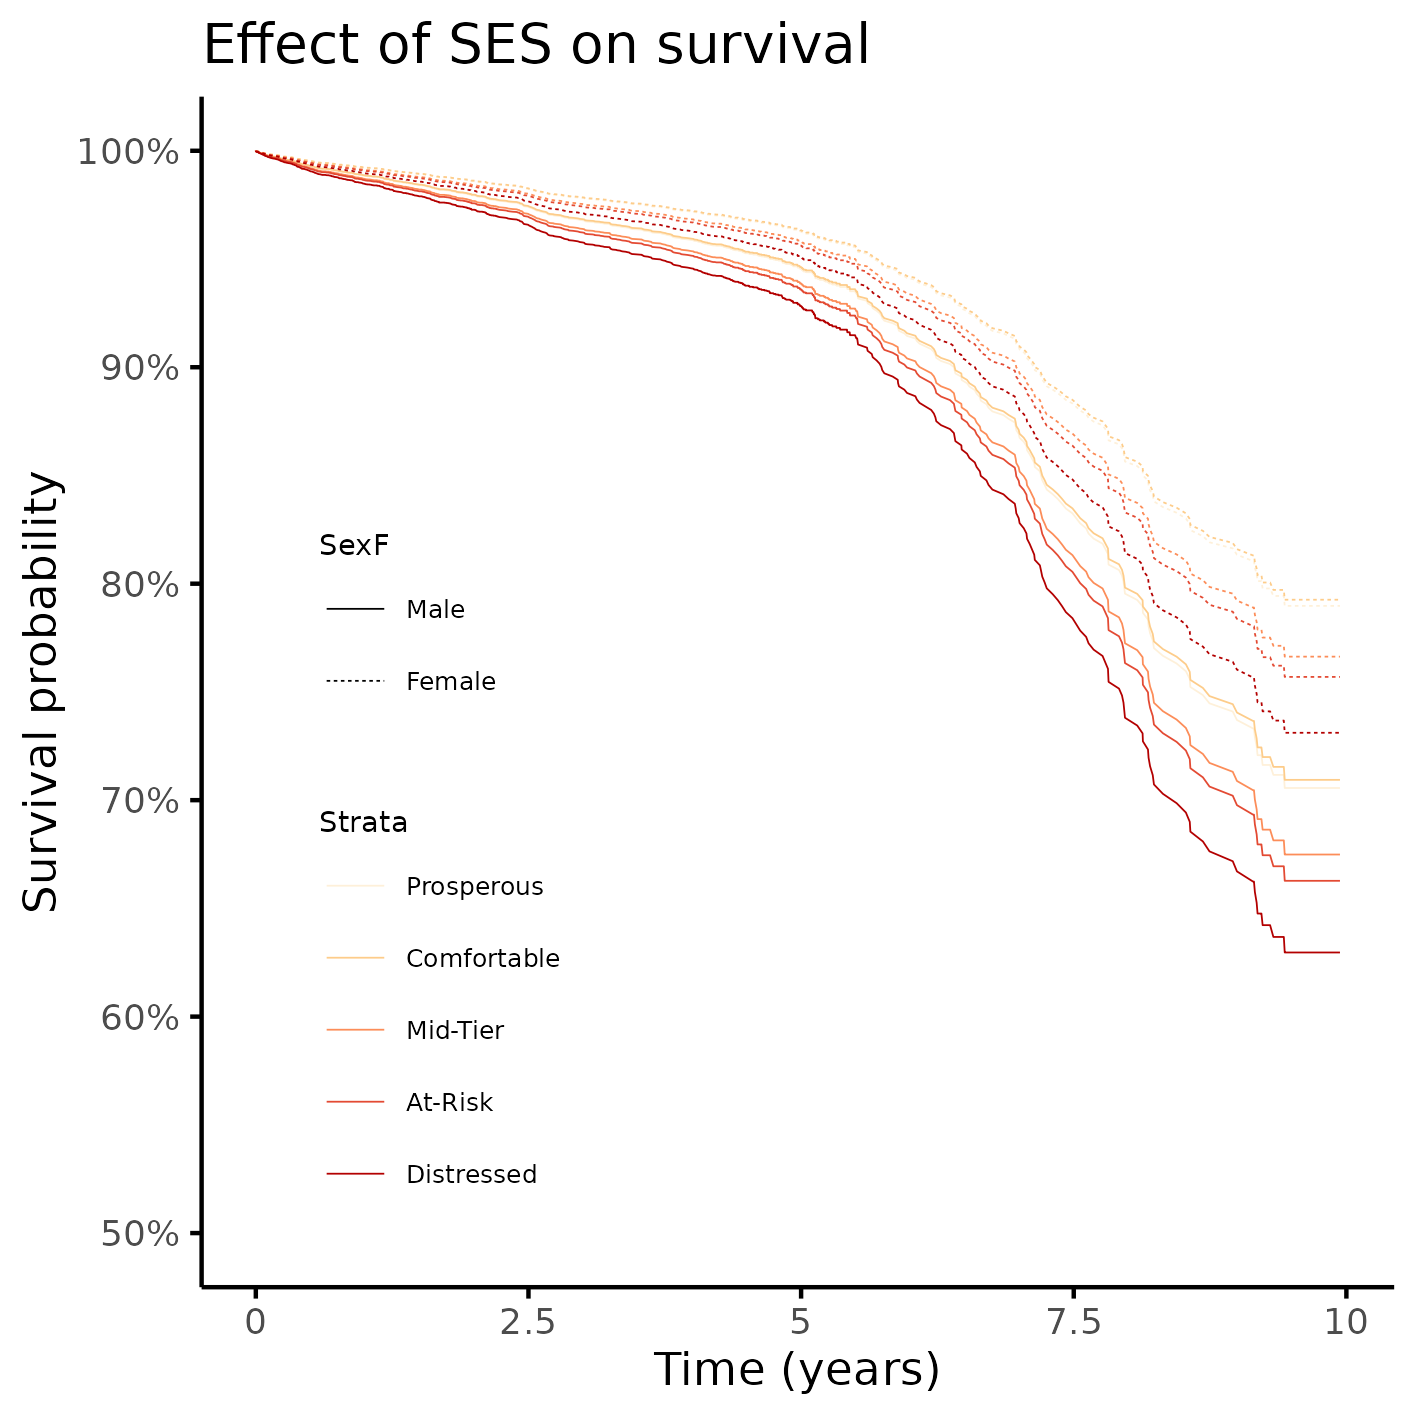
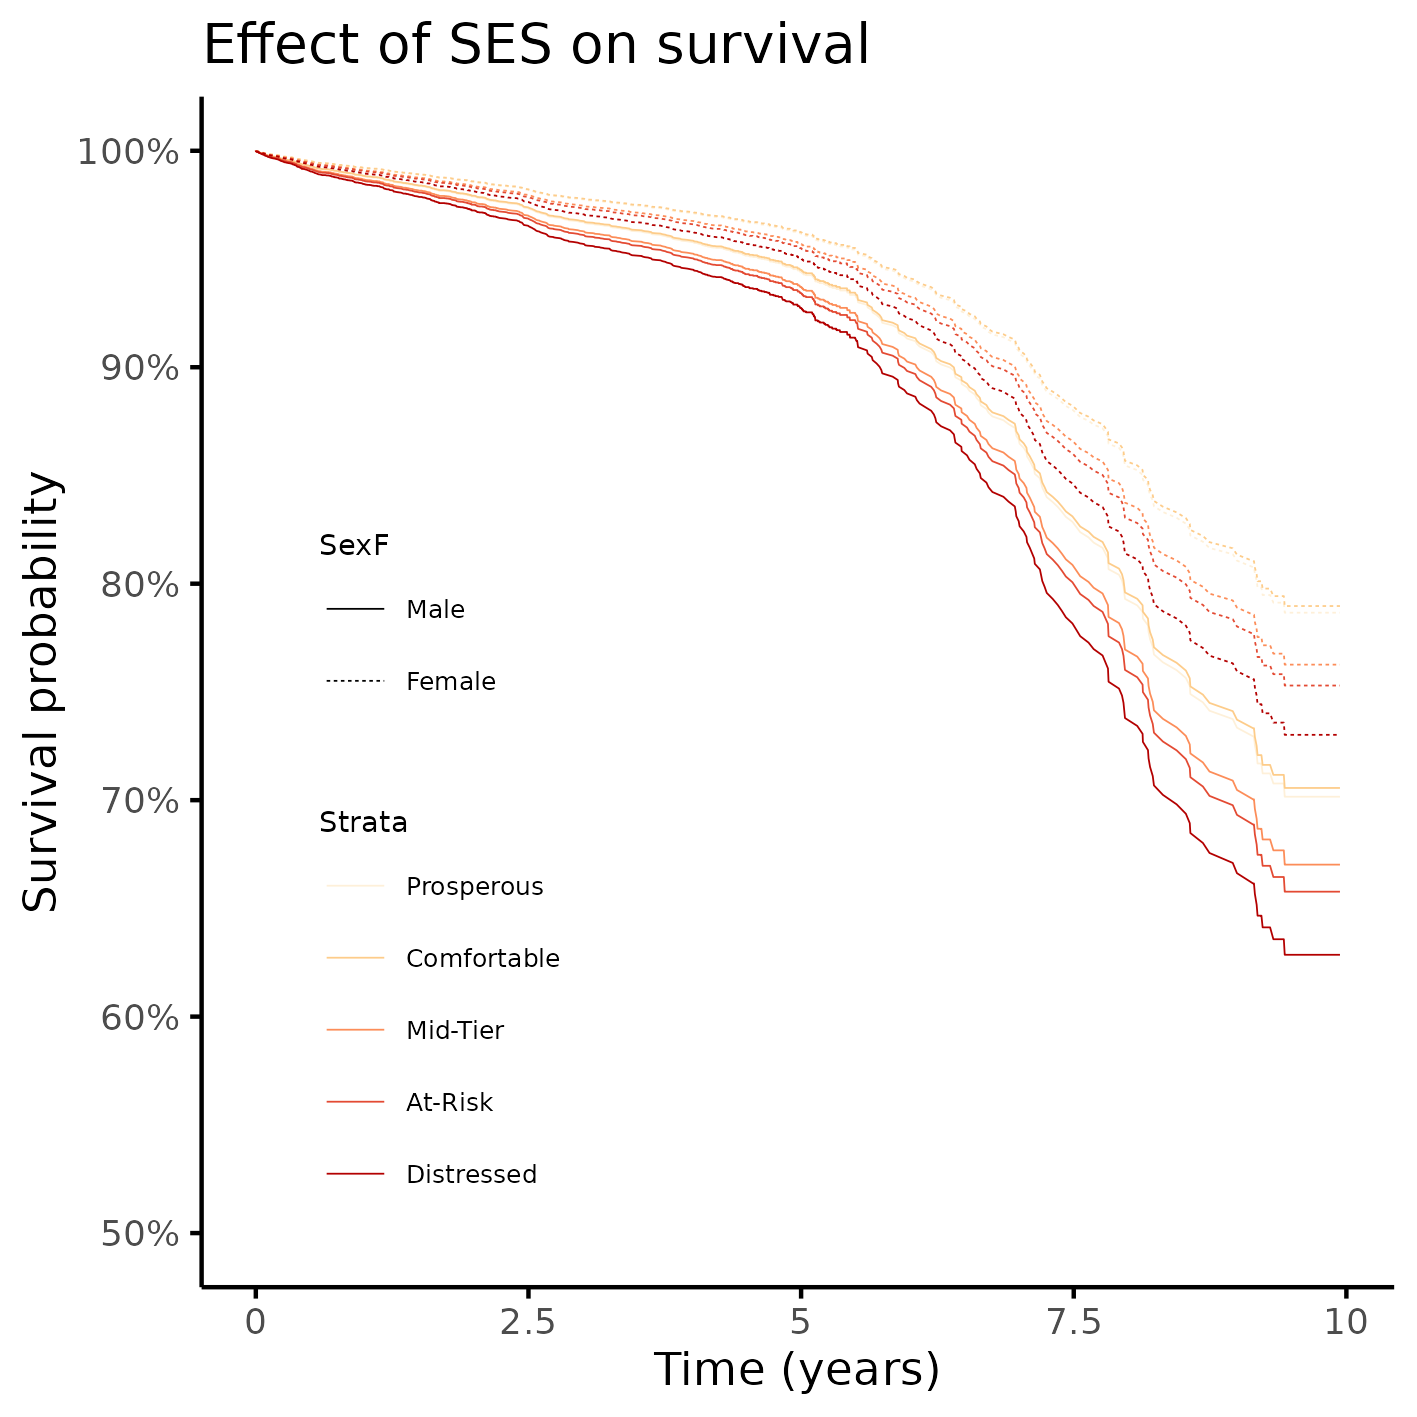
results: update after data changes

diff --git a/report/SAR-2023-004-BH-v01.md b/report/SAR-2023-004-BH-v01.md
@@ -168,8 +168,10 @@ Table: **Table 1** Epidemiological, demographic and clinical characteristics of 
 |                                              Other                                               |  1,537 (21%)  |
 |                                             Unknown                                              |      21       |
 |                        __Days From Injury to Rehab Discharge, Mean (SD)__                        |    46 (37)    |
-|                              __FIM Motor at Discharge:, Mean (SD)__                              |   77 (113)    |
-|                            __FIM Cognitive at Discharge:, Mean (SD)__                            |    28 (66)    |
+|                              __FIM Motor at Discharge:, Mean (SD)__                              |    64 (18)    |
+|                                             Unknown                                              |      107      |
+|                            __FIM Cognitive at Discharge:, Mean (SD)__                            |    23 (7)     |
+|                                             Unknown                                              |      34       |
 
 The observed overall mortality was 13.5% in the study period.
 The distribution of cases appear homogeneous across SES quintiles (Figure 1), ranging from 10.6% to 13.5%.
@@ -184,7 +186,7 @@ See also Figure A2 in the appendix for the distribution of sexes in each SES qui
 ## Effect of SES on mortality
 
 The previous seizure disorder diagnosis was missing for most of the study population and was not included in the model as a covariate to preserve study power.
-After excluding participants with missing data from other variables a total of 5,834 complete cases were available for analysis.
+After excluding participants with missing data from other variables a total of 5,756 complete cases were available for analysis.
 The cause of injury and both FIM scales were removed from the model due to violations to the proportional hazards assumption (see Figure A4 in the appendix for the Schoenfeld residuals and p-values for each variable in the full model).
 
 The survival curves of both sexes by SES quintiles can be seen in Figure 2.
@@ -200,11 +202,11 @@ This plot was cropped at 50% survival for presentation purposes, see Figure A3 i
 When considering only the crude effect of SES on mortality neighborhood to which the individuals were discharged was associated with mortality (Table 2).
 Participants who were discharged to an at-risk neighborhood had increased chance of dying
 (HR = 1.29,
-95% CI = 1.02 to 1.63),
+95% CI = 1.02 to 1.64),
 when compared to those discharged to a prosperous neighborhood.
 Participants discharged to a distressed neighborhood also had a higher mortality risk
-(HR = 1.38,
-95% CI = 1.10 to 1.73),
+(HR = 1.35,
+95% CI = 1.08 to 1.70),
 when compared to those discharged to a prosperous neighborhood.
 
 
@@ -214,20 +216,20 @@ Table: **Table 2** Effect of SES on mortality; HR estimates were adjusted for se
 |:------------------|:------:|:------------:|:-----------:|:------:|:------------:|:-----------:|:------:|:------------:|:-----------:|
 |__SES quintiles__  |        |              |             |        |              |             |        |              |             |
 |Prosperous         |   —    |      —       |             |   —    |      —       |             |   —    |      —       |             |
-|Comfortable        |  1.18  | 0.94 to 1.49 |    0.152    |  0.98  | 0.78 to 1.25 |    0.899    |  0.99  | 0.74 to 1.31 |    0.929    |
-|Mid-Tier           |  1.00  | 0.78 to 1.27 |    0.982    |  1.13  | 0.88 to 1.45 |    0.352    |  1.07  | 0.78 to 1.45 |    0.681    |
-|At-Risk            |  1.29  | 1.02 to 1.63 |  __0.034__  |  1.18  | 0.92 to 1.51 |    0.187    |  1.30  | 0.98 to 1.74 |    0.072    |
-|Distressed         |  1.38  | 1.10 to 1.73 |  __0.006__  |  1.33  | 1.04 to 1.70 |  __0.025__  |  1.23  | 0.91 to 1.66 |    0.170    |
+|Comfortable        |  1.18  | 0.94 to 1.49 |    0.157    |  0.98  | 0.78 to 1.25 |    0.892    |  0.98  | 0.74 to 1.30 |    0.885    |
+|Mid-Tier           |  1.00  | 0.78 to 1.27 |    0.979    |  1.13  | 0.88 to 1.46 |    0.349    |  1.06  | 0.78 to 1.45 |    0.693    |
+|At-Risk            |  1.29  | 1.02 to 1.64 |  __0.031__  |  1.18  | 0.92 to 1.51 |    0.183    |  1.30  | 0.97 to 1.74 |    0.076    |
+|Distressed         |  1.35  | 1.08 to 1.70 |  __0.009__  |  1.31  | 1.02 to 1.68 |  __0.033__  |  1.23  | 0.91 to 1.66 |    0.178    |
 
 After controlling for all relevant covariates, this effect can only be consistently detected for the distressed neighborhoods, that exhibit a
-33% increased
+31% increased
 risk of dying than prosperous neighborhoods
-(HR = 1.33,
-95% CI = 1.04 to 1.70).
-The point estimates for all adjusted estimates of SES effect range from 0.98 to 1.33, relative to the prosperous neighborhood, and that represents a narrower range of point estimates than the crude estimates (from 1.00 to 1.38).
+(HR = 1.31,
+95% CI = 1.02 to 1.68).
+The point estimates for all adjusted estimates of SES effect range from 0.98 to 1.31, relative to the prosperous neighborhood, and that represents a narrower range of point estimates than the crude estimates (from 1.00 to 1.35).
 
 When considering only late deaths the SES effect is not significantly associated with mortality, and estimates relative to a prosperous neighborhood range
-from 0.99 to 1.30
+from 0.98 to 1.30
 (which is an even narrower range than the crude estimates).
 The adjusted estimates of all-time mortality can be compared with late mortality where in all neighborhoods the CI of the adjusted estimate is contained within the late death CI's, except for mid-tier and distressed neighborhoods that exceed the respective upper ranges of confidence by a diminute margin (presumably due to precision and study power).
 The respective point estimates in most cases do not change by a large amount, where most differences fall under 0.1 HR, with the exception of at-risk neighborhoods.
@@ -291,46 +293,45 @@ Table: **Table A1** Alternative version of Table 2, showing effects from all cov
 |:-----------------------------------------------------------|:------:|:------------:|:-----------:|:------:|:------------:|:-----------:|:------:|:------------:|:-----------:|
 |__SES quintiles__                                           |        |              |             |        |              |             |        |              |             |
 |Prosperous                                                  |   —    |      —       |             |   —    |      —       |             |   —    |      —       |             |
-|Comfortable                                                 |  1.18  | 0.94 to 1.49 |    0.152    |  0.98  | 0.78 to 1.25 |    0.899    |  0.99  | 0.74 to 1.31 |    0.929    |
-|Mid-Tier                                                    |  1.00  | 0.78 to 1.27 |    0.982    |  1.13  | 0.88 to 1.45 |    0.352    |  1.07  | 0.78 to 1.45 |    0.681    |
-|At-Risk                                                     |  1.29  | 1.02 to 1.63 |  __0.034__  |  1.18  | 0.92 to 1.51 |    0.187    |  1.30  | 0.98 to 1.74 |    0.072    |
-|Distressed                                                  |  1.38  | 1.10 to 1.73 |  __0.006__  |  1.33  | 1.04 to 1.70 |  __0.025__  |  1.23  | 0.91 to 1.66 |    0.170    |
+|Comfortable                                                 |  1.18  | 0.94 to 1.49 |    0.157    |  0.98  | 0.78 to 1.25 |    0.892    |  0.98  | 0.74 to 1.30 |    0.885    |
+|Mid-Tier                                                    |  1.00  | 0.78 to 1.27 |    0.979    |  1.13  | 0.88 to 1.46 |    0.349    |  1.06  | 0.78 to 1.45 |    0.693    |
+|At-Risk                                                     |  1.29  | 1.02 to 1.64 |  __0.031__  |  1.18  | 0.92 to 1.51 |    0.183    |  1.30  | 0.97 to 1.74 |    0.076    |
+|Distressed                                                  |  1.35  | 1.08 to 1.70 |  __0.009__  |  1.31  | 1.02 to 1.68 |  __0.033__  |  1.23  | 0.91 to 1.66 |    0.178    |
 |__Sex:__                                                    |        |              |             |        |              |             |        |              |             |
 |Male                                                        |        |              |             |   —    |      —       |             |   —    |      —       |             |
-|Female                                                      |        |              |             |  0.68  | 0.57 to 0.81 | __<0.001__  |  0.66  | 0.54 to 0.82 | __<0.001__  |
+|Female                                                      |        |              |             |  0.68  | 0.57 to 0.81 | __<0.001__  |  0.66  | 0.53 to 0.81 | __<0.001__  |
 |__What is your race?__                                      |        |              |             |        |              |             |        |              |             |
 |White                                                       |        |              |             |   —    |      —       |             |   —    |      —       |             |
-|Black                                                       |        |              |             |  0.80  | 0.63 to 1.01 |    0.060    |  0.82  | 0.62 to 1.09 |    0.173    |
-|Hispanic                                                    |        |              |             |  0.60  | 0.43 to 0.83 |  __0.002__  |  0.69  | 0.47 to 1.01 |    0.059    |
-|Other                                                       |        |              |             |  0.71  | 0.47 to 1.07 |    0.100    |  0.76  | 0.48 to 1.22 |    0.254    |
+|Black                                                       |        |              |             |  0.81  | 0.64 to 1.02 |    0.073    |  0.82  | 0.62 to 1.09 |    0.171    |
+|Hispanic                                                    |        |              |             |  0.61  | 0.44 to 0.84 |  __0.003__  |  0.70  | 0.47 to 1.03 |    0.068    |
+|Other                                                       |        |              |             |  0.72  | 0.48 to 1.09 |    0.118    |  0.78  | 0.49 to 1.24 |    0.293    |
 |__Age at injury__                                           |        |              |             |  1.04  | 1.04 to 1.05 | __<0.001__  |  1.04  | 1.04 to 1.05 | __<0.001__  |
 |__Substance Problem Use__                                   |        |              |             |        |              |             |        |              |             |
 |No                                                          |        |              |             |   —    |      —       |             |   —    |      —       |             |
-|Yes                                                         |        |              |             |  1.25  | 1.04 to 1.50 |  __0.016__  |  1.28  | 1.03 to 1.59 |  __0.027__  |
+|Yes                                                         |        |              |             |  1.23  | 1.02 to 1.47 |  __0.029__  |  1.25  | 1.00 to 1.55 |  __0.047__  |
 |__Education__                                               |        |              |             |        |              |             |        |              |             |
 |Greater Than High School                                    |        |              |             |   —    |      —       |             |   —    |      —       |             |
-|Less Than High School                                       |        |              |             |  1.23  | 0.99 to 1.54 |    0.067    |  1.26  | 0.97 to 1.65 |    0.082    |
-|High School/GED                                             |        |              |             |  1.37  | 1.16 to 1.63 | __<0.001__  |  1.31  | 1.06 to 1.61 |  __0.012__  |
+|Less Than High School                                       |        |              |             |  1.23  | 0.98 to 1.54 |    0.070    |  1.25  | 0.96 to 1.63 |    0.096    |
+|High School/GED                                             |        |              |             |  1.36  | 1.15 to 1.62 | __<0.001__  |  1.29  | 1.05 to 1.59 |  __0.016__  |
 |__At time of injury, what was your employment status?__     |        |              |             |        |              |             |        |              |             |
 |Employed                                                    |        |              |             |   —    |      —       |             |   —    |      —       |             |
-|Unemployed                                                  |        |              |             |  1.78  | 1.35 to 2.35 | __<0.001__  |  1.72  | 1.24 to 2.39 |  __0.001__  |
-|Other                                                       |        |              |             |  2.02  | 1.65 to 2.48 | __<0.001__  |  1.90  | 1.49 to 2.42 | __<0.001__  |
+|Unemployed                                                  |        |              |             |  1.82  | 1.38 to 2.41 | __<0.001__  |  1.77  | 1.28 to 2.46 | __<0.001__  |
+|Other                                                       |        |              |             |  2.03  | 1.65 to 2.49 | __<0.001__  |  1.91  | 1.49 to 2.43 | __<0.001__  |
 |__Urbanization based on zip code of address at discharge.__ |        |              |             |        |              |             |        |              |             |
 |Suburban                                                    |        |              |             |   —    |      —       |             |   —    |      —       |             |
-|Rural                                                       |        |              |             |  1.02  | 0.82 to 1.28 |    0.848    |  1.16  | 0.89 to 1.52 |    0.262    |
-|Urban                                                       |        |              |             |  1.09  | 0.91 to 1.32 |    0.357    |  1.10  | 0.88 to 1.39 |    0.409    |
+|Rural                                                       |        |              |             |  1.01  | 0.81 to 1.27 |    0.921    |  1.15  | 0.88 to 1.50 |    0.307    |
+|Urban                                                       |        |              |             |  1.09  | 0.90 to 1.31 |    0.378    |  1.11  | 0.88 to 1.39 |    0.390    |
 |__Spinal cord injury:__                                     |        |              |             |        |              |             |        |              |             |
 |No                                                          |        |              |             |   —    |      —       |             |   —    |      —       |             |
-|Yes                                                         |        |              |             |  1.21  | 0.87 to 1.70 |    0.261    |  1.36  | 0.91 to 2.03 |    0.132    |
+|Yes                                                         |        |              |             |  1.22  | 0.87 to 1.72 |    0.257    |  1.36  | 0.91 to 2.05 |    0.134    |
 |__Primary rehabilitation payor:__                           |        |              |             |        |              |             |        |              |             |
 |Private Insurance                                           |        |              |             |   —    |      —       |             |   —    |      —       |             |
-|Public Insurance                                            |        |              |             |  1.43  | 1.18 to 1.72 | __<0.001__  |  1.57  | 1.25 to 1.98 | __<0.001__  |
-|Other                                                       |        |              |             |  1.15  | 0.80 to 1.66 |    0.441    |  1.32  | 0.88 to 1.99 |    0.183    |
+|Public Insurance                                            |        |              |             |  1.40  | 1.16 to 1.69 | __<0.001__  |  1.54  | 1.23 to 1.94 | __<0.001__  |
+|Other                                                       |        |              |             |  1.16  | 0.80 to 1.66 |    0.434    |  1.32  | 0.88 to 2.00 |    0.182    |
 |__Residence after rehab discharge:__                        |        |              |             |        |              |             |        |              |             |
 |Private Residence                                           |        |              |             |   —    |      —       |             |   —    |      —       |             |
-|Other                                                       |        |              |             |  1.67  | 1.41 to 1.97 | __<0.001__  |  1.36  | 1.10 to 1.69 |  __0.004__  |
-|__Days From Injury to Rehab Discharge__                     |        |              |             |  1.00  | 1.00 to 1.01 |  __0.014__  |  1.00  | 1.00 to 1.00 |    0.447    |
-|__FIM Motor at Discharge:__                                 |        |              |             |  1.00  | 1.00 to 1.00 |  __0.038__  |  1.00  | 1.00 to 1.00 |    0.136    |
+|Other                                                       |        |              |             |  1.70  | 1.44 to 2.01 | __<0.001__  |  1.40  | 1.13 to 1.73 |  __0.002__  |
+|__Days From Injury to Rehab Discharge__                     |        |              |             |  1.00  | 1.00 to 1.01 |  __0.020__  |  1.00  | 1.00 to 1.00 |    0.638    |
 
 ## Availability
 
